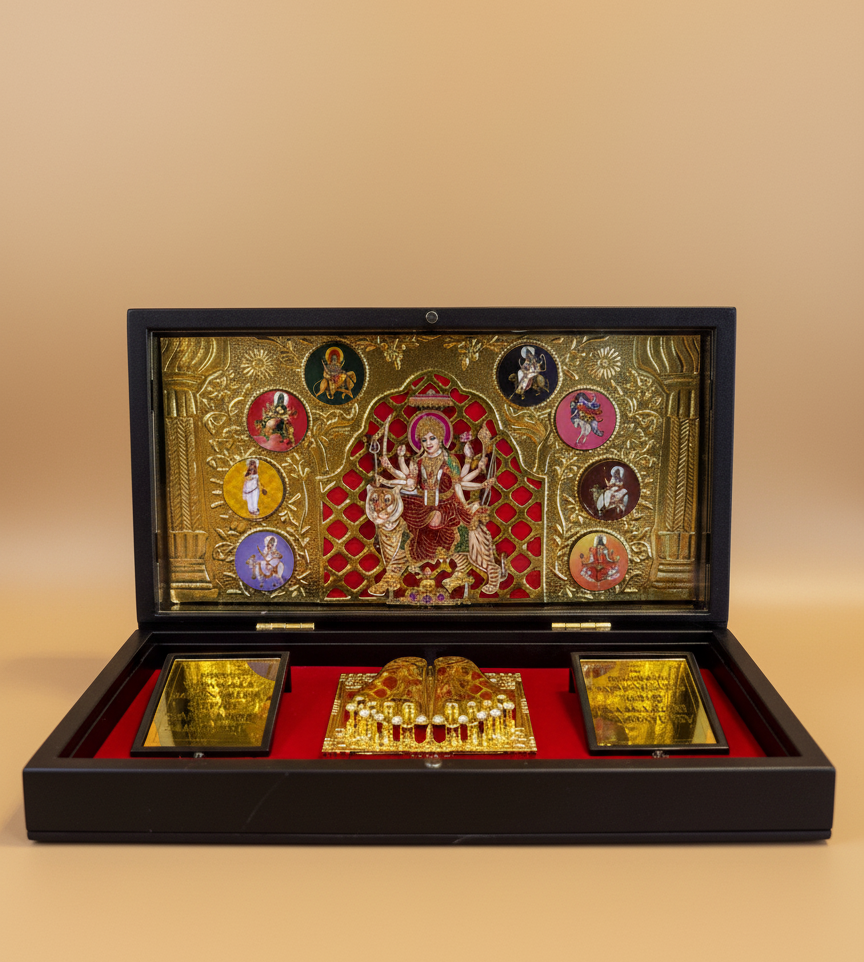
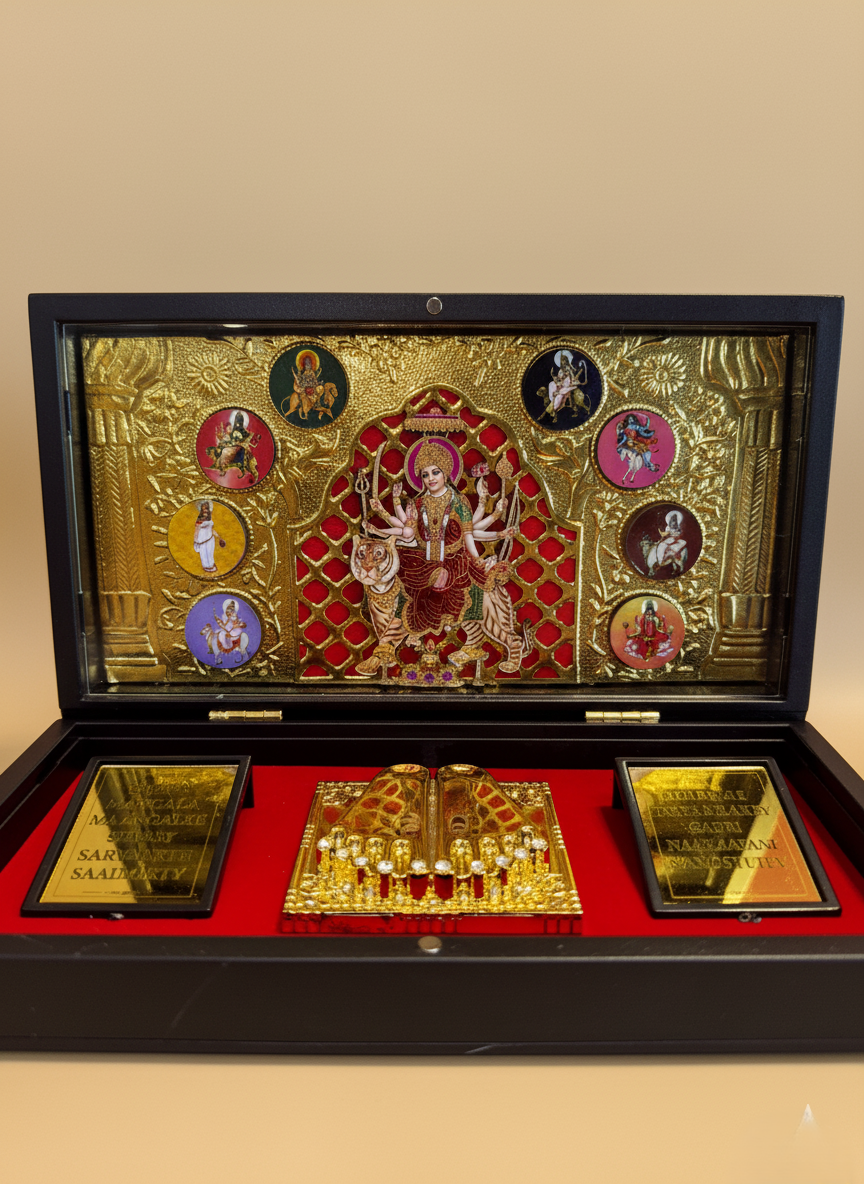
Changes

diff --git a/src/data/products.ts b/src/data/products.ts
@@ -389,7 +389,7 @@ export const allProducts: Product[] = [
     image: ambeeMaaPujaBoxImage,
     rating: 4.9,
     description:
-      "Exquisite Ambee Maa puja box featuring Goddess Durga with 8 sacred forms in vibrant colors. Dimensions: 21.3 cm x 11.5 cm x 4 cm. Complete deluxe set with golden compartments for sacred offerings and worship ceremonies.",
+      "Exquisite Ambee Maa deluxe puja box featuring Goddess Durga with 8 sacred forms surrounded by divine deities in ornate golden frame. Dimensions: 21.3 cm x 11.5 cm x 4 cm. Complete deluxe set with traditional compartments, sacred plaques, and golden figurines for elaborate worship ceremonies.",
     badge: "19% OFF",
     category: "accessories",
   },
